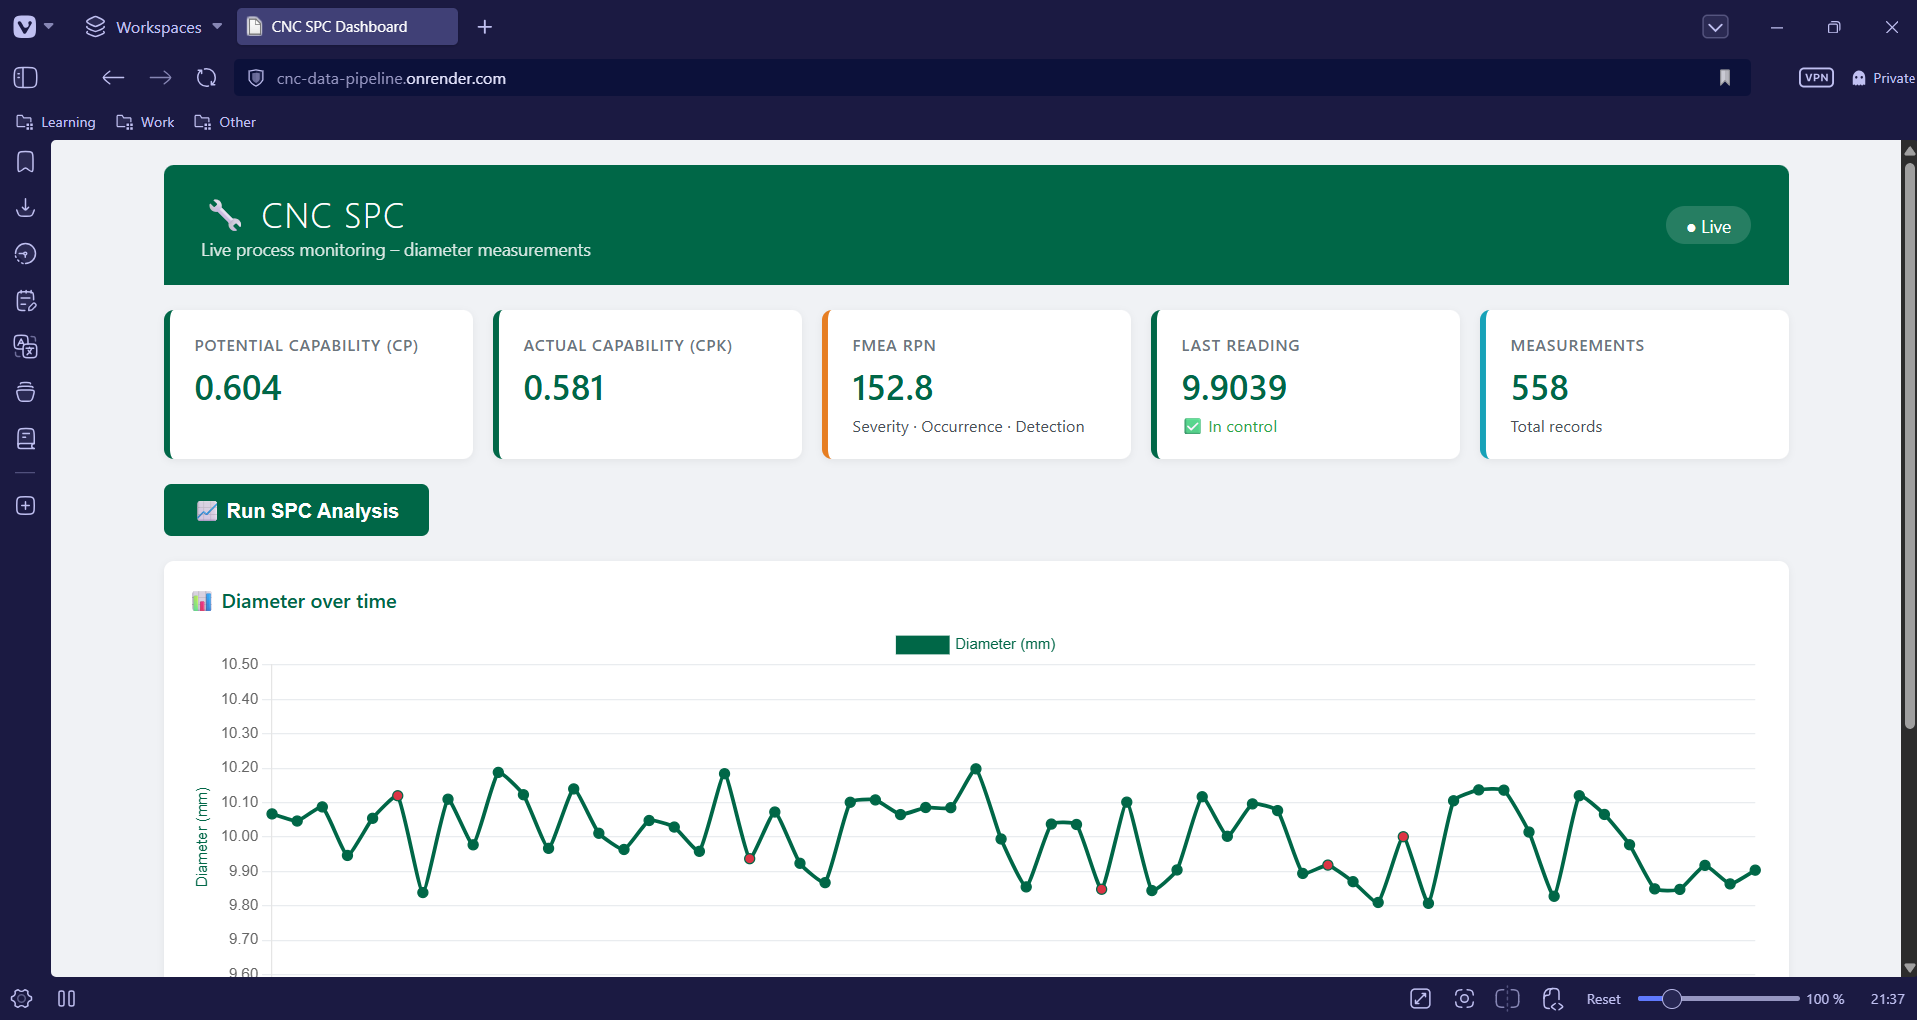
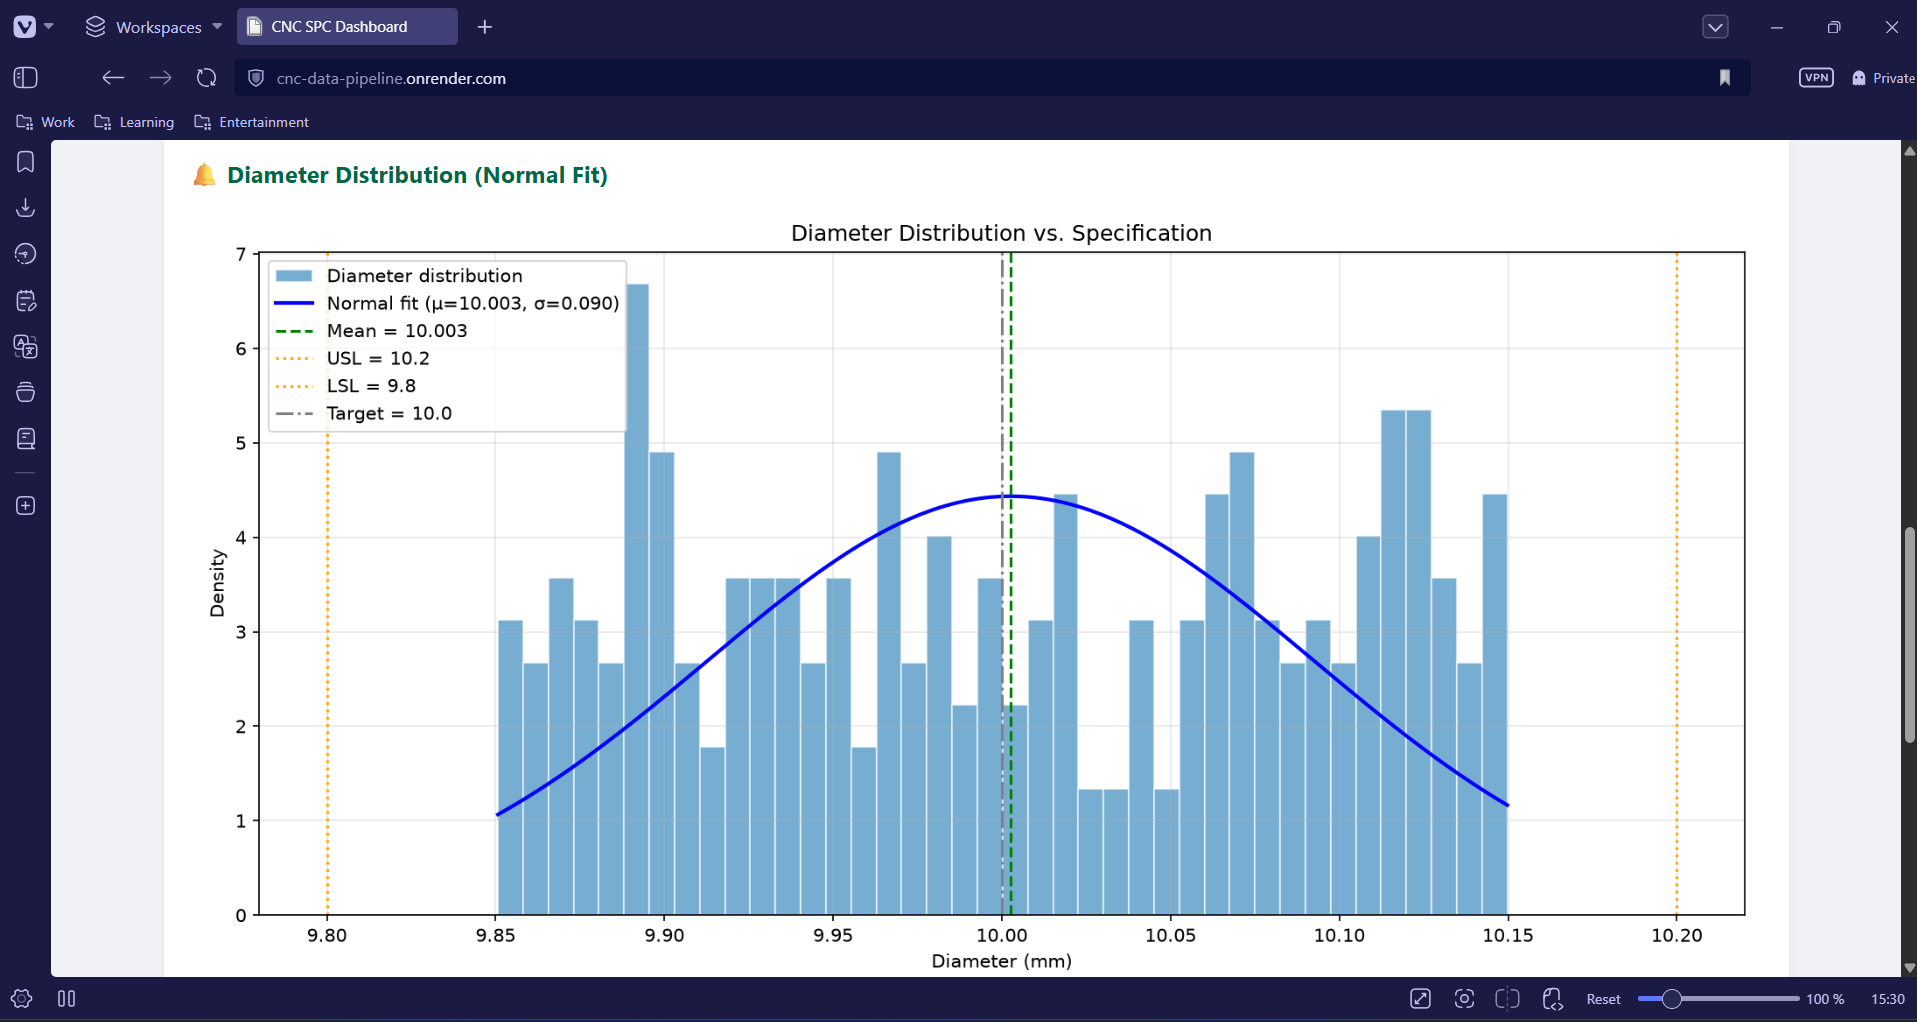
feat: added local testing script

diff --git a/data_ingestion/opcua_server.py b/data_ingestion/opcua_server.py
@@ -8,8 +8,18 @@ exposed through OPC UA's object/node model.
 import asyncio
 import logging
 import random
+import sys
+from pathlib import Path
 
 from asyncua import Server, ua
+
+# Add project root to sys.path so 'config' is importable when this file is
+# run directly (python data_ingestion/opcua_server.py only puts
+# data_ingestion/ on sys.path by default, not the project root). Must run
+# before the config.settings import below.
+PROJECT_ROOT = Path(__file__).resolve().parent.parent
+if str(PROJECT_ROOT) not in sys.path:
+    sys.path.insert(0, str(PROJECT_ROOT))
 
 from config.settings import (
     OPCUA_ENDPOINT,
@@ -19,14 +29,6 @@ from config.settings import (
     DRIFT_PER_TICK_MM,
     UPDATE_INTERVAL_S,
 )
-
-import sys
-from pathlib import Path
-
-# Add project root to sys.path
-PROJECT_ROOT = Path(__file__).resolve().parent.parent
-if str(PROJECT_ROOT) not in sys.path:
-    sys.path.insert(0, str(PROJECT_ROOT))
 
 logging.basicConfig(
     level=logging.WARNING, format="%(asctime)s %(levelname)s %(message)s"
